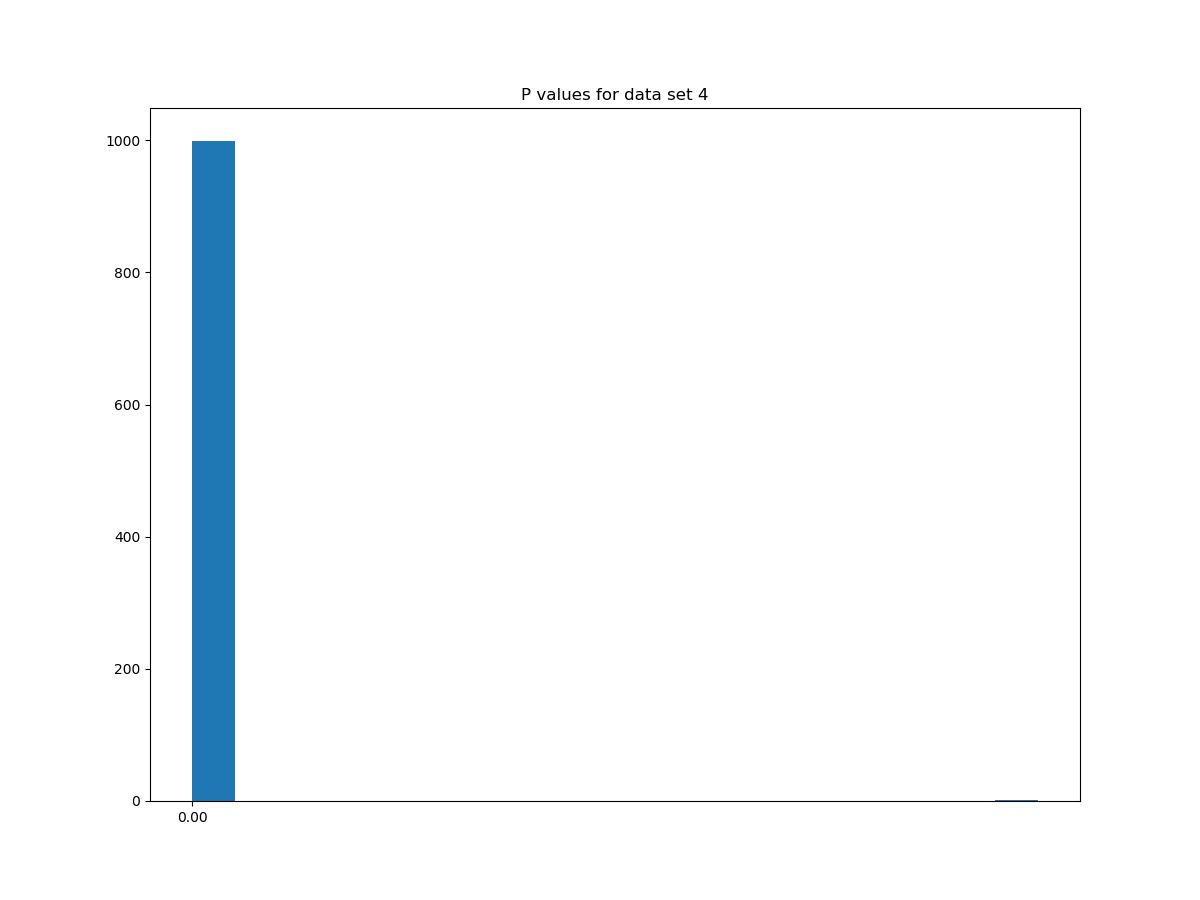
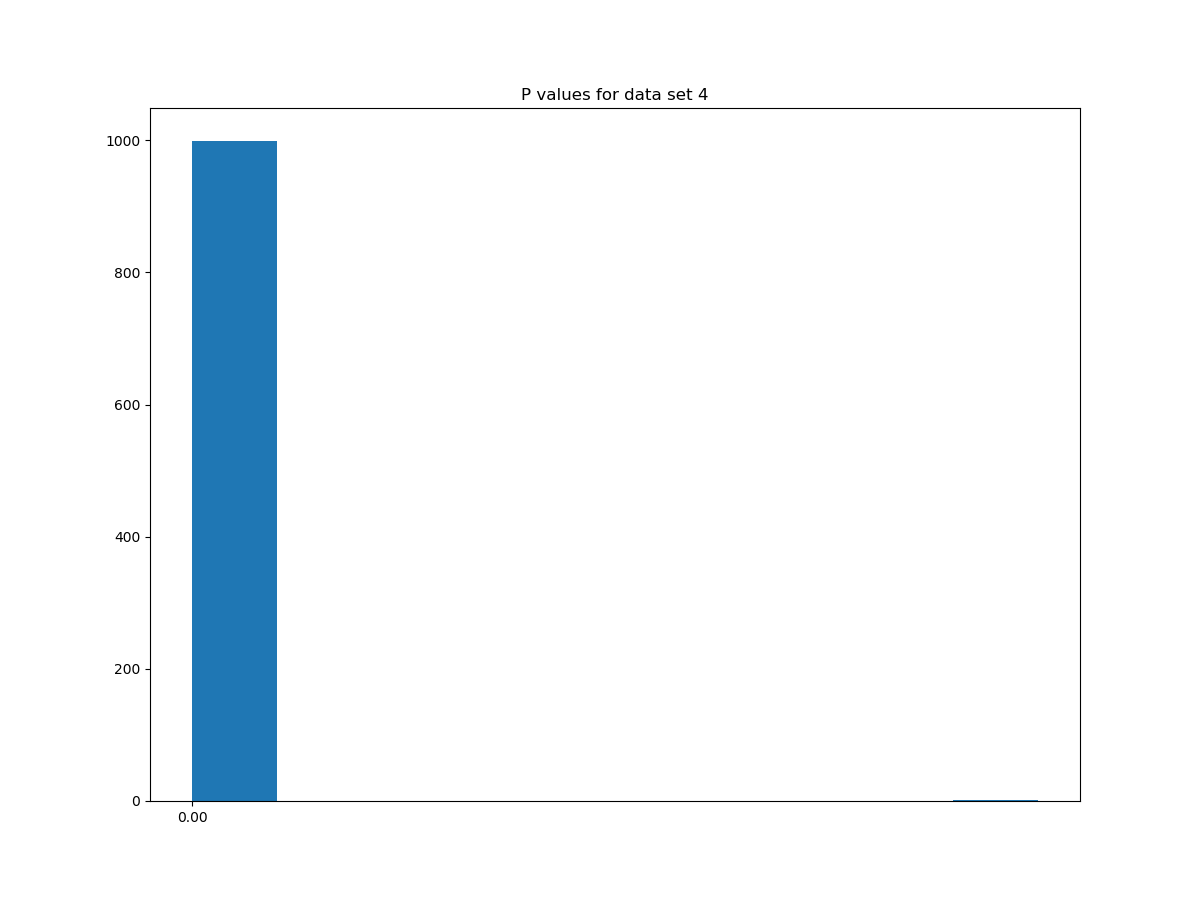
fixes error resulting in poor histograms for dataset 5

Changed region(s): [[0.185, 0.1556, 0.2467, 0.9022]]

diff --git a/hw/project2/project2.py b/hw/project2/project2.py
@@ -113,14 +113,14 @@ solutions.close()
 m = int(input("Part 3: what value for m?\n"))   
 k = int(input("Part 3: what value for k?\n"))
 ''' 
-This bit has been commented out because this calculation takes SO LONG
+#This bit has been commented out because this calculation takes SO LONG
 
 
 p3h1 = [str(H(ds1,m))+',' for i in range(1000)]
 p3h2 = [str(H(ds2,m))+',' for i in range(1000)]
 p3h3 = [str(H(ds3,m))+',' for i in range(1000)]
 p3h4 = [str(H(ds4,m))+',' for i in range(1000)]
-p3h5 = [str(H(ds4,m))+',' for i in range(1000)]
+p3h5 = [str(H(ds5,m))+',' for i in range(1000)]
 p3txt = open('p3.txt', 'w')
 p3txt.writelines(p3h1+['\n'])
 p3txt.writelines(p3h2+['\n'])
@@ -146,6 +146,7 @@ h2bar = np.mean(p3H2)
 h3bar = np.mean(p3H3)
 h4bar = np.mean(p3H4)
 h5bar = np.mean(p3H5) 
+
 mu = 0.5
 sigma = 1/(sqrt(8*m+4)*sqrt(k))
 
@@ -157,6 +158,7 @@ p3p5 = [pvalh(h,mu,sigma) for h in p3H5]
 
 plt.figure(figsize=(12,9))
 plt.title('P values for data set 1')
+plt.xticks(np.linspace(0,1,21))
 plt.hist(p3p1,bins=20)
 plt.savefig('p1.png') 
 plt.clf()
@@ -166,6 +168,7 @@ plt.close()
 plt.figure(figsize=(12,9))
 plt.title('P values for data set 2')
 plt.hist(p3p2, bins=20)
+plt.xticks(np.linspace(0,1,21))
 plt.savefig('p2.png') 
 plt.clf()
 plt.cla()
@@ -174,14 +177,17 @@ plt.close()
 plt.figure(figsize=(12,9))
 plt.title('P values for data set 3')
 plt.hist(p3p3, bins=20)
+plt.xticks(np.linspace(0,1,21))
 plt.savefig('p3.png') 
 plt.clf()
 plt.cla()
 plt.close()
-
+print(p3p5)
+#print(p3H5) 
 plt.figure(figsize=(12,9))
 plt.title('P values for data set 4')
-plt.hist(p3p4, bins=20)
+plt.xticks(np.linspace(0,1,21))
+plt.hist(p3p4, bins=np.linspace(min(p3p4),max(p3p4),num=11))
 plt.savefig('p4.png') 
 plt.clf()
 plt.cla()
@@ -190,6 +196,7 @@ plt.close()
 plt.figure(figsize=(12,9))
 plt.title('P values for data set 5')
 plt.hist(p3p5, bins=20)
+plt.xticks(np.linspace(0,1,21))
 plt.savefig('p5.png') 
 plt.clf()
 plt.cla()
